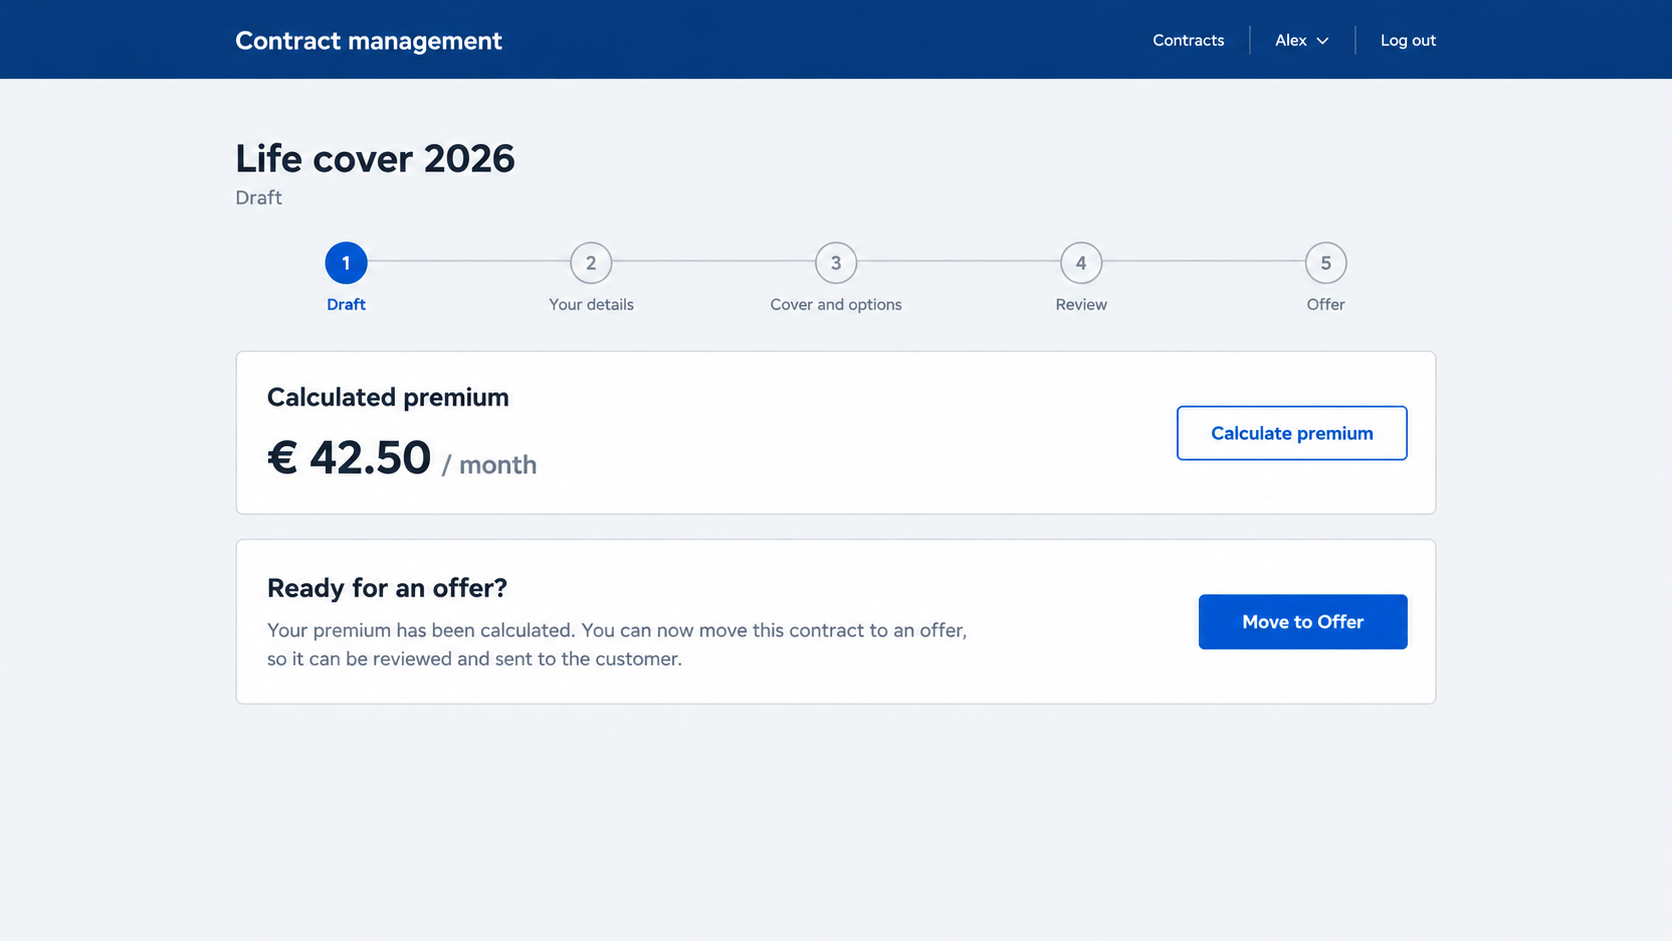
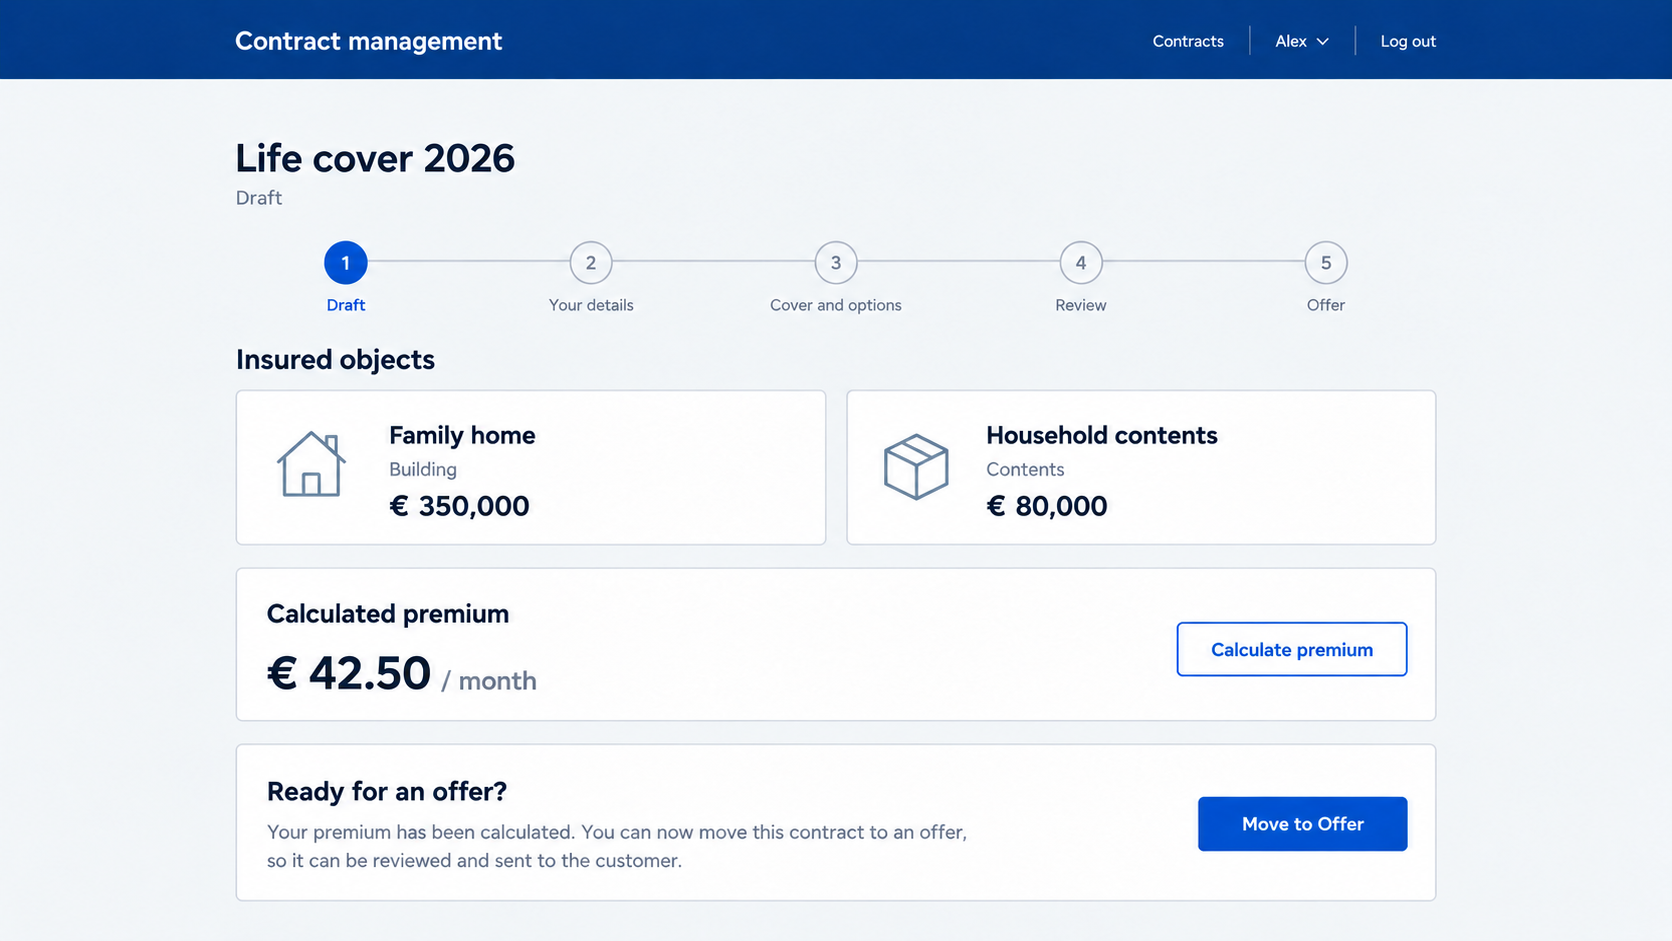
feat: updated training

diff --git a/chapters/09-document-upload.md b/chapters/09-document-upload.md
@@ -17,10 +17,9 @@ Implement on the Offer step:
 | Service calls | Upload a document to a contract and download a document. The BFF accepts one file per upload request |
 | File selection directive | A reusable directive for a file input that reports the chosen file and clears the input |
 | Choosing files | A file picker that accepts only pdf and docx. A chosen file is **not** sent to the BFF; it is kept in browser memory in a signal. Documents can only be added while the contract is in Offer |
-| Pending list | Shows the names of the files in memory, each with a remove button. Files are lost when the page is reloaded |
-| Document list | Shows the documents already stored in the BFF, each with a download button |
+| Documents table | Shows both files in memory and documents already stored in the BFF in one table. Each row has the document name, a status (`Pending` for files in memory or `Uploaded` for stored documents), a download icon and a delete icon. The download icon is enabled only for uploaded documents; deleting a pending document removes it from memory. Files in memory are lost when the page is reloaded |
 | Continue button | Disabled until the stored documents plus the files in memory are at least 2. Pressing it runs the flow below and moves the contract to Review |
-| Visibility | The file picker, the pending list and the continue button only exist while the contract is in Offer; the stored document list stays visible afterwards |
+| Visibility | The file picker and the continue button only exist while the contract is in Offer; the documents table stays visible afterwards. The pending-document delete action only exists while the contract is in Offer |
 | Translations | All new texts in English and German |
 
 The flow, managed with RxJS:
@@ -46,7 +45,8 @@ Choose two files, remove one and add another, then continue. Watch the network t
 - The service uploads a file as a multipart form
 - The directive reports the chosen file
 - A chosen file is kept in memory and no request is sent
-- A file in memory can be removed
+- A pending file can be deleted from the documents table
+- An uploaded document can be downloaded using its download icon
 - Continue is disabled with one document in total, enabled with two
 - Continuing sends one upload request per file and sends the Review transition only after all uploads have been answered
 - If an upload fails, no transition request is sent and the message is shown

diff --git a/chapters/08-premium-calculation.md b/chapters/08-premium-calculation.md
@@ -10,7 +10,8 @@ Implement on the Draft step:
 
 | What | Business description |
 |------|----------------------|
-| Service calls | Calculate the premium of a contract and move a contract to a target stage |
+| Service calls | Retrieve the insured objects for the current contract type, calculate the premium of a contract, and move a contract to a target stage |
+| Insured objects | Retrieve the insured objects with an HTTP call based on the current contract type. Show every returned object as a separate card, with its type and insured value |
 | Premium display | Shows the premium, or a dash while it is not calculated. The user can never type a premium |
 | Calculate button | Asks the BFF to calculate the premium and shows the contract returned |
 | Move to offer button | Disabled until a premium exists. Moves the contract to Offer and the stepper follows |
@@ -30,5 +31,7 @@ Create a contract, calculate the premium, then move it to Offer.
 - The move to offer button is disabled without a premium
 - The move to offer button is enabled with a premium
 - Calculating shows the premium returned by the BFF
+- Every insured object is displayed as a card
+- The insured-objects request uses the current contract type
 
 Done when the move to offer is only possible with a premium and the tests are green.
